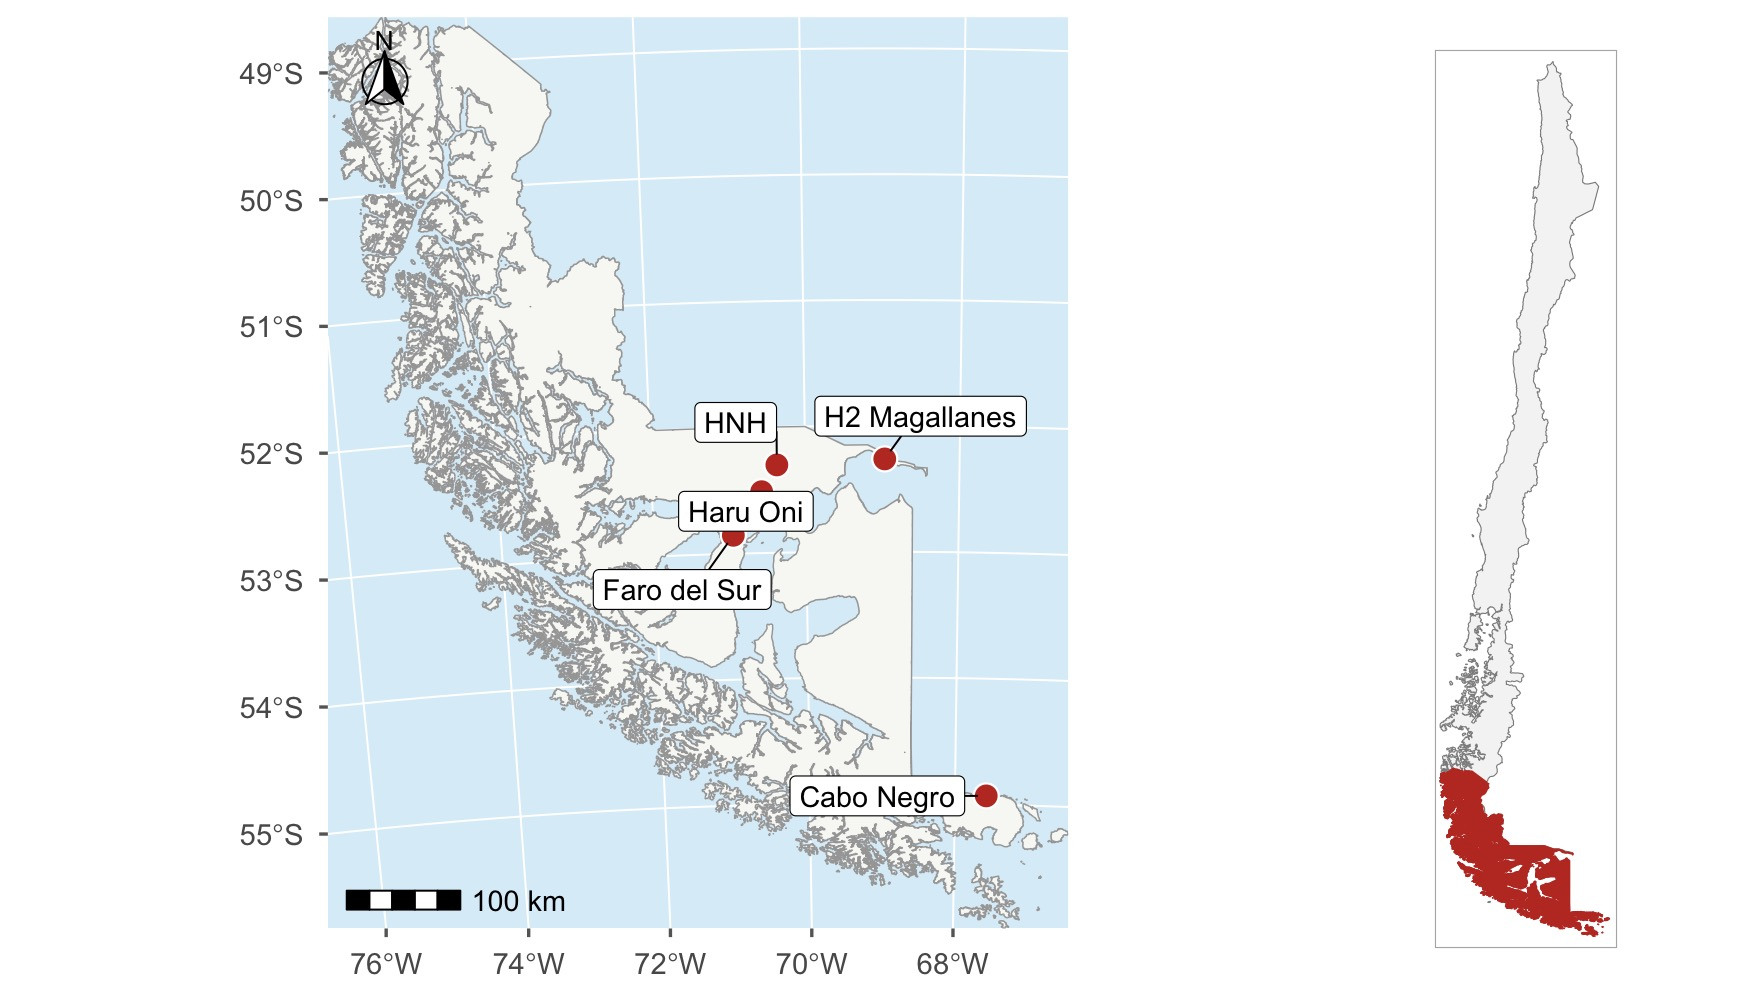
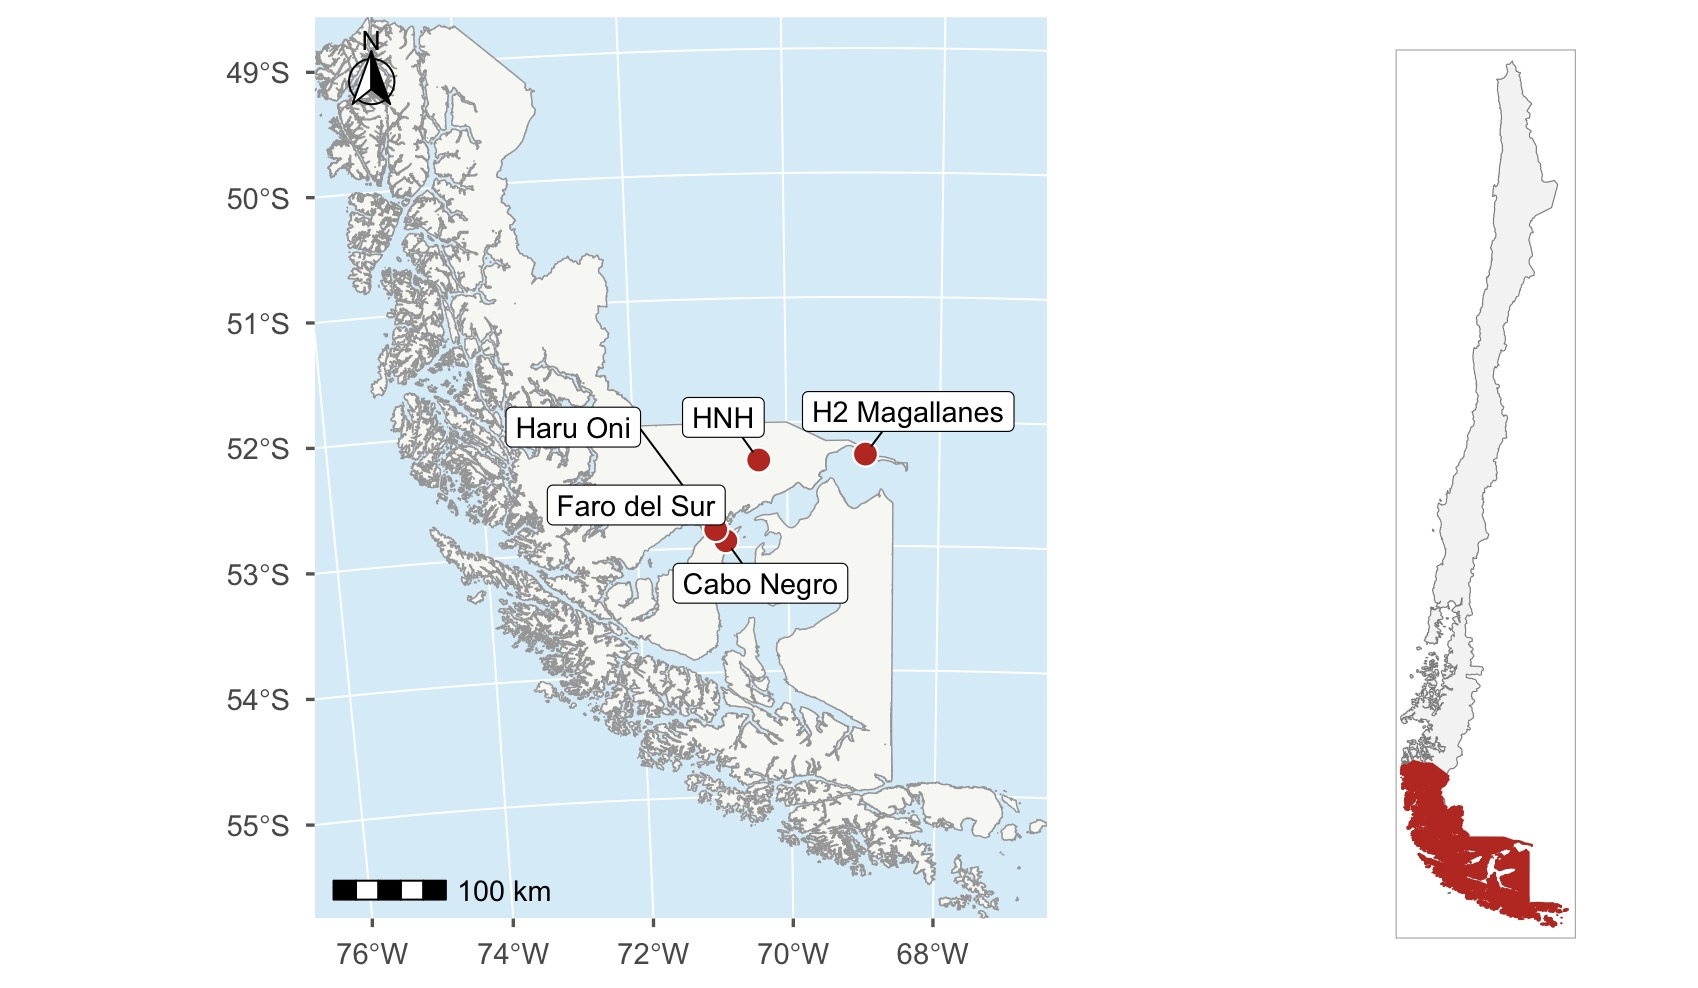
Fig 1 Erratum

diff --git a/CODEBOOK.md b/CODEBOOK.md
@@ -1,0 +1,49 @@
+# Codebook
+
+This codebook follows Open Science Framework recommendations for documenting datasets by describing variable names, definitions, and allowed values. fileciteturn9file1
+
+## Dataset
+
+**File:** `data_documental.xlsx`
+
+**Unit of analysis:** Institution × documentary coding record.
+
+## Variables
+
+| Variable | Readable name | Type | Allowed values | Definition |
+|----------|---------------|------|----------------|------------|
+| Institution | Institution | Text | Official institution names | Public institution or organisation referenced in the documentary analysis. |
+| Count | Minimum coding threshold | Integer | ≥0 | Total number of coded references before filtering. The plotting script retains observations where Count ≥ 3. |
+| A1–A18 | Analytical themes | Integer | 0 or positive integers | Number of documentary mentions assigned to each analytical theme for a given institution. Higher values indicate more frequent references. |
+
+## Institutions
+
+Examples include:
+
+- Ministry of Energy
+- Ministry of Economy
+- CORFO
+- Regional Governments
+- Ministry of Environment
+- Environmental Evaluation Service
+- National Petroleum Company (ENAP)
+- Municipalities
+
+## Theme variables
+
+Variables A1–A18 represent the analytical coding framework developed for the documentary analysis. Each variable stores the number of mentions coded to that theme for each institution.
+
+## Data processing
+
+The R script:
+
+1. Imports the Excel file.
+2. Filters observations where `Count >= 3`.
+3. Reshapes the data from wide to long format.
+4. Aggregates mentions by institution and theme.
+5. Produces descriptive summaries and a heatmap.
+
+## Missing values
+
+- 0 = no coded mentions.
+- Blank cells should be treated as missing and investigated before analysis.
